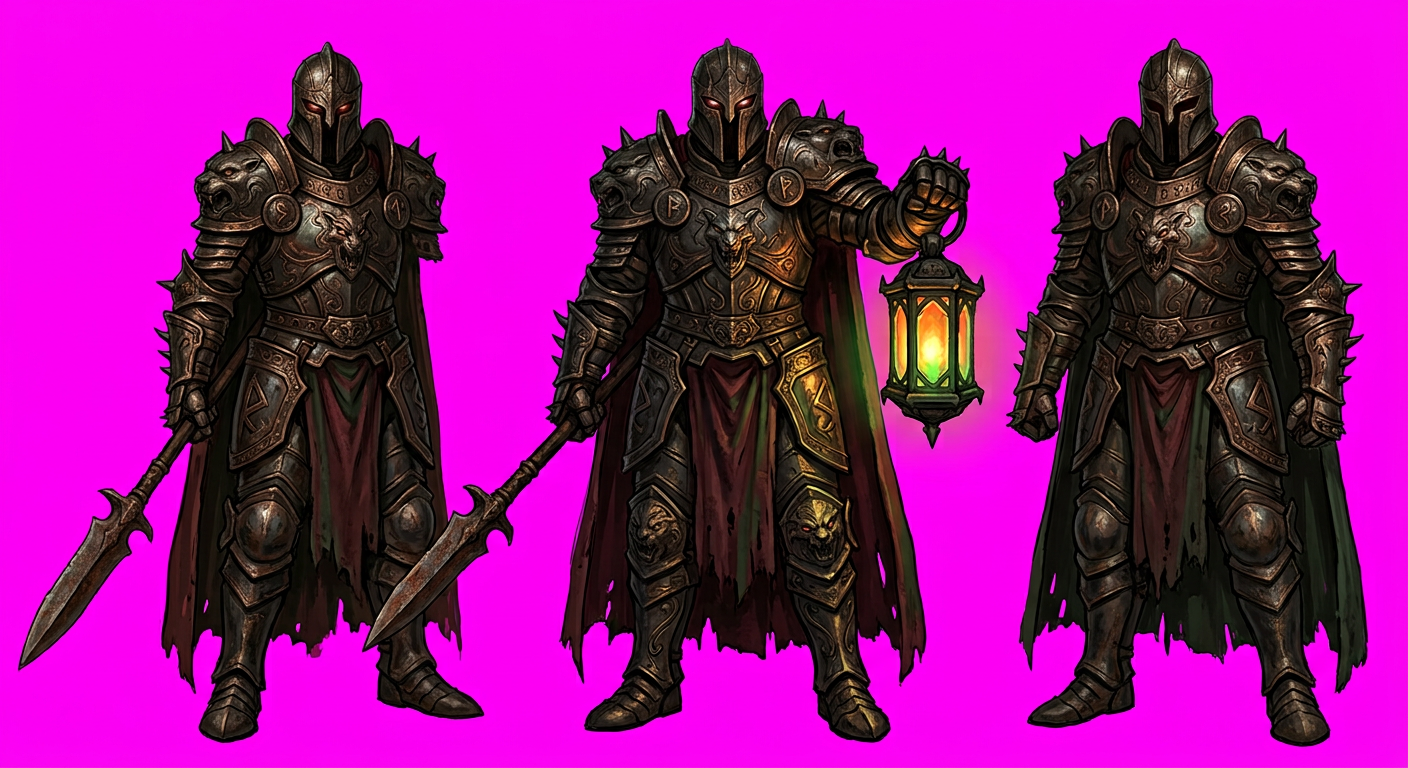
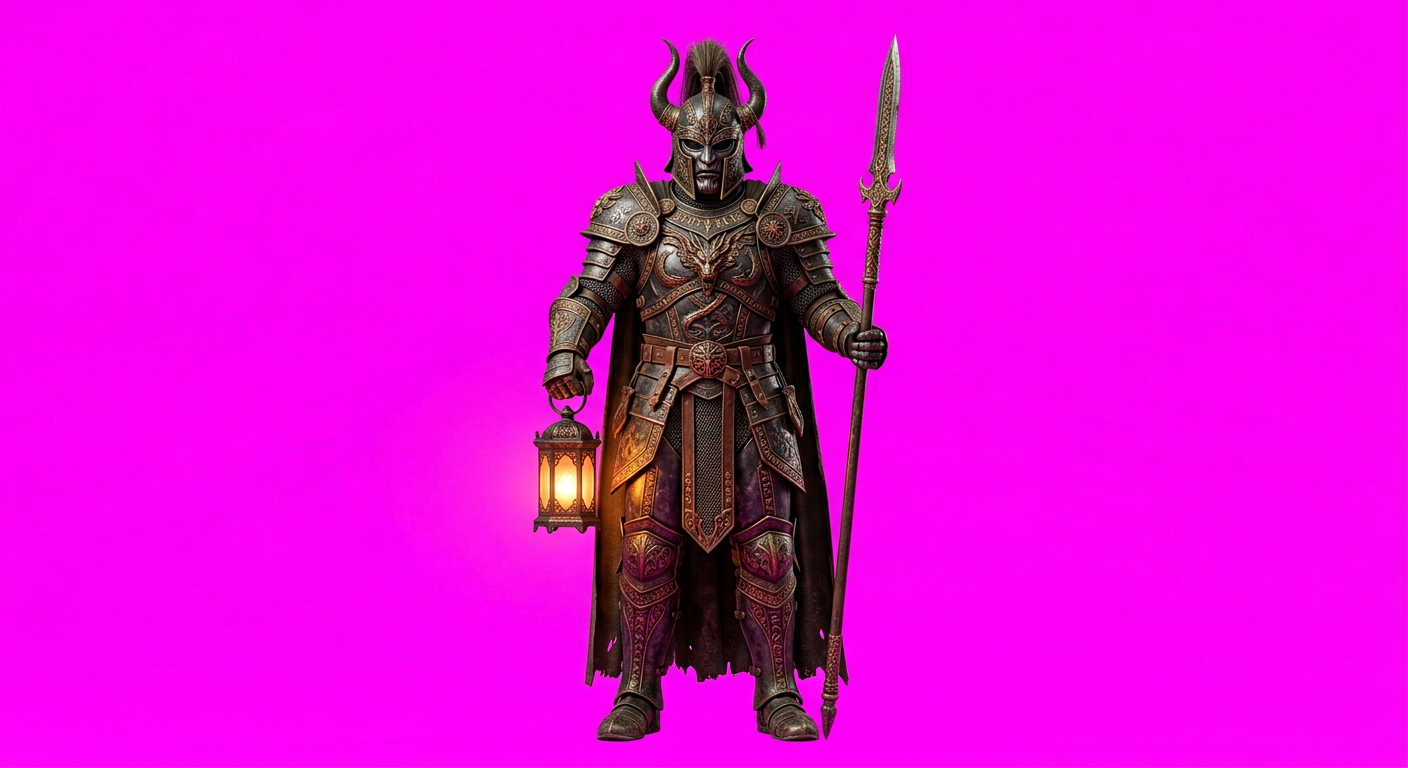
Fix tripled characters (single-figure sprites) + restack controls: move/jump left-stack, abilities right grid

diff --git a/index.html b/index.html
@@ -15,6 +15,8 @@
     padding:0 16px 16px;display:flex;justify-content:space-between;align-items:flex-end;
     pointer-events:none;z-index:10;}
   .cluster{display:flex;gap:12px;align-items:flex-end;pointer-events:auto;}
+  .left{flex-direction:column;align-items:flex-start;}
+  .right{display:grid;grid-template-columns:repeat(2,62px);gap:10px;justify-content:flex-end;}
   .btn{width:66px;height:66px;border-radius:18px;border:2px solid rgba(255,255,255,.25);
     background:rgba(255,255,255,.08);color:#fff;font-size:28px;display:flex;align-items:center;
     justify-content:center;user-select:none;backdrop-filter:blur(4px);
@@ -33,9 +35,9 @@
   <div class="cluster left">
     <div class="btn" id="btn-left">&#9664;</div>
     <div class="btn" id="btn-right">&#9654;</div>
-    <div class="btn" id="btn-jump">&#10514;</div>
   </div>
   <div class="cluster right">
+    <div class="btn small" id="btn-jump">&#10514;</div>
     <div class="btn small" id="btn-cloak">&#128123;</div>
     <div class="btn small" id="btn-morph">&#129504;</div>
     <div class="btn small" id="btn-gravity">&#128255;</div>

diff --git a/zugo.html b/zugo.html
@@ -15,6 +15,8 @@
     padding:0 16px 16px;display:flex;justify-content:space-between;align-items:flex-end;
     pointer-events:none;z-index:10;}
   .cluster{display:flex;gap:12px;align-items:flex-end;pointer-events:auto;}
+  .left{flex-direction:column;align-items:flex-start;}
+  .right{display:grid;grid-template-columns:repeat(2,62px);gap:10px;justify-content:flex-end;}
   .btn{width:66px;height:66px;border-radius:18px;border:2px solid rgba(255,255,255,.25);
     background:rgba(255,255,255,.08);color:#fff;font-size:28px;display:flex;align-items:center;
     justify-content:center;user-select:none;backdrop-filter:blur(4px);
@@ -33,9 +35,9 @@
   <div class="cluster left">
     <div class="btn" id="btn-left">&#9664;</div>
     <div class="btn" id="btn-right">&#9654;</div>
-    <div class="btn" id="btn-jump">&#10514;</div>
   </div>
   <div class="cluster right">
+    <div class="btn small" id="btn-jump">&#10514;</div>
     <div class="btn small" id="btn-cloak">&#128123;</div>
     <div class="btn small" id="btn-morph">&#129504;</div>
     <div class="btn small" id="btn-gravity">&#128255;</div>
